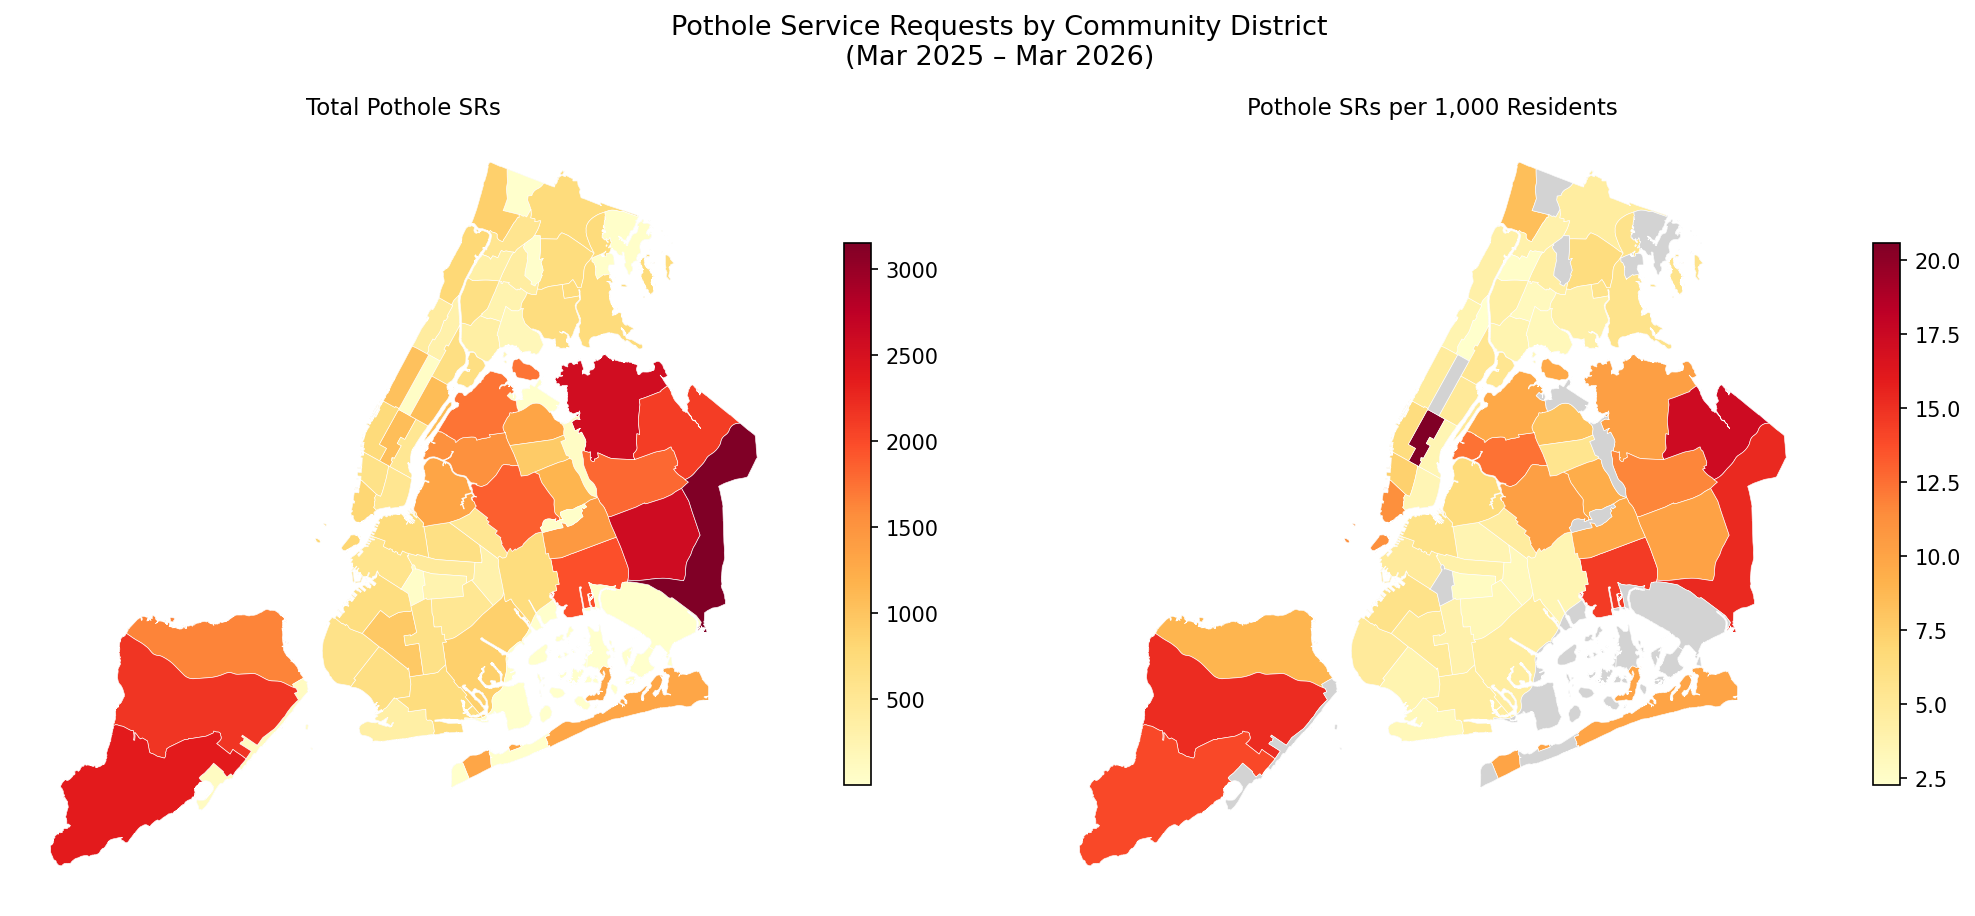
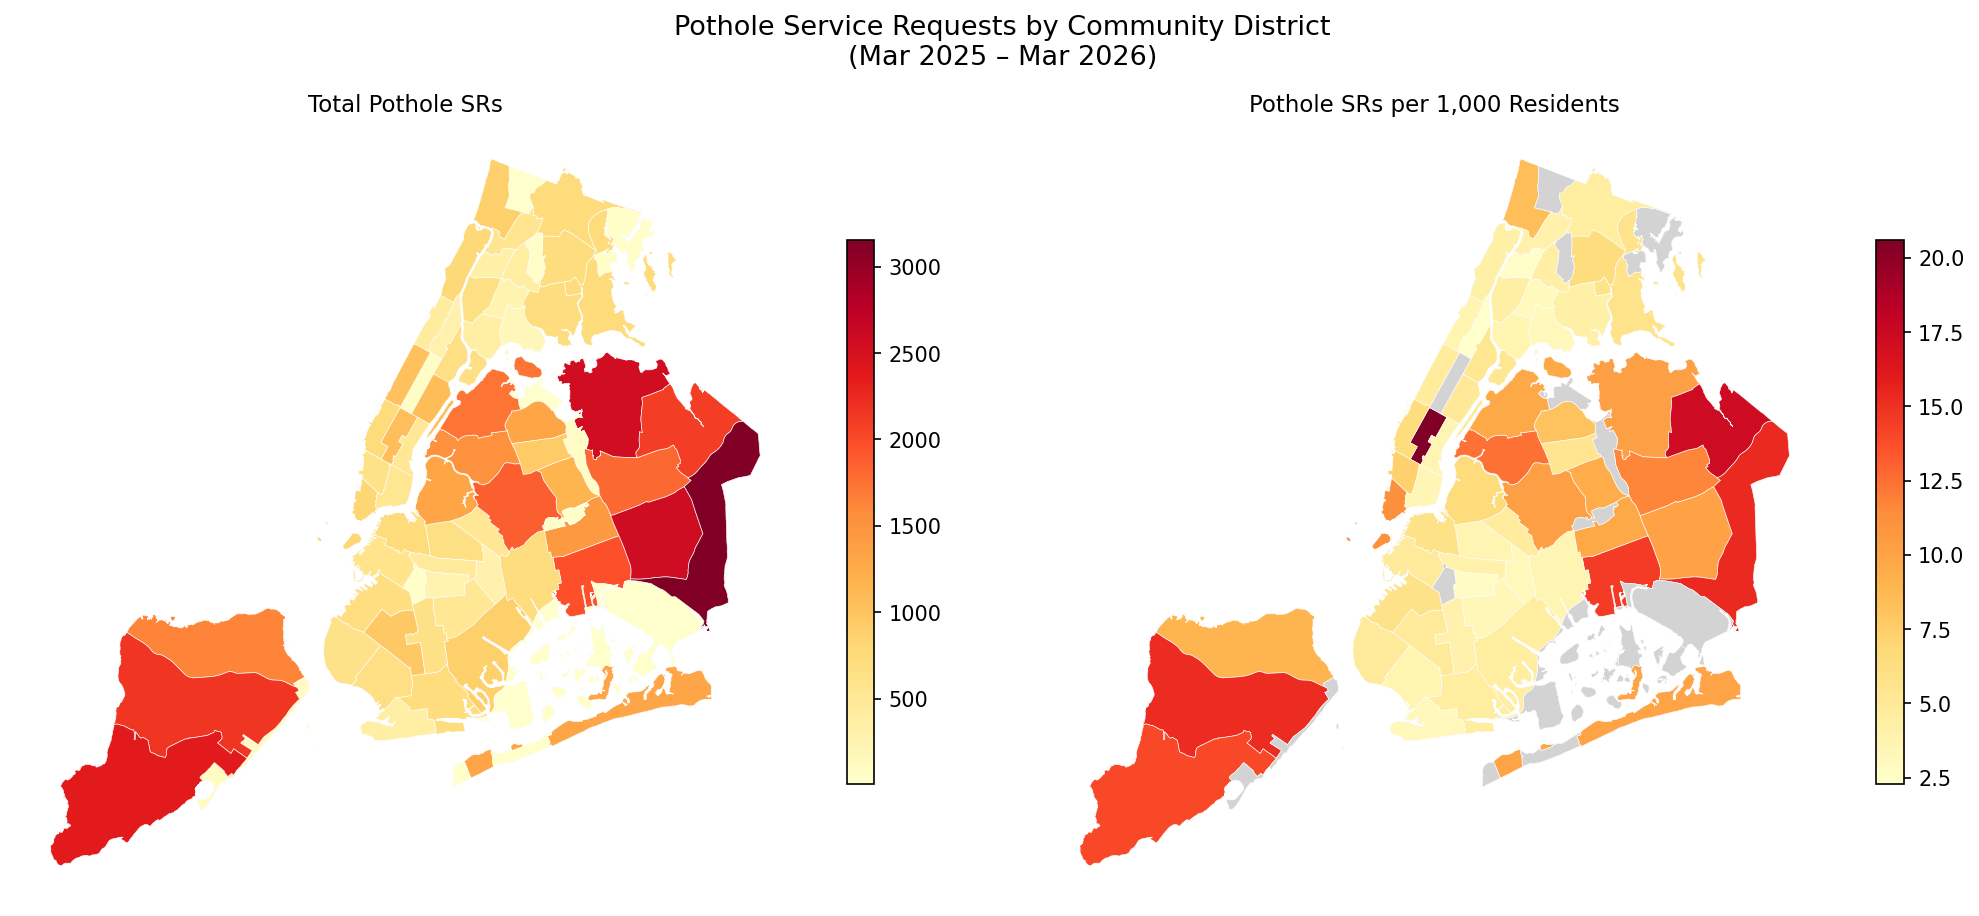
Create maps for potholes and rodents

diff --git a/src/dmo_311_quality/transform/merge_311_acs.py b/src/dmo_311_quality/transform/merge_311_acs.py
@@ -3,25 +3,17 @@ import pandas as pd
 
 from dmo_311_quality.utils.config_paths import PROCESSED_DATA_DIR
 
+# March 2025–March 2026 inclusive, encoded as YYYYMM integers
+_WINDOW_START = 202503
+_WINDOW_END = 202603
 
-if __name__ == '__main__':
-    df_311 = pd.read_parquet(PROCESSED_DATA_DIR / '311_sr_counts.parquet')
-    df_acs = pd.read_parquet(PROCESSED_DATA_DIR / 'acs_cd_demographic.parquet')
-
-
-    keep_row = (
-        (df_311['year'] * 100 + df_311['month'] >= 202503)
-        & (df_311['year'] * 100 + df_311['month'] <= 202603)
-    )
-    df_311 = df_311.loc[keep_row].groupby('community_board')['sr_count'].sum()
 
 # %%
-
 def merge_311_acs(
     df_311: pd.DataFrame,
     df_acs: pd.DataFrame,
-    acs_cols = ['Pop_1E', 'Borough'],
-    validate = '1:1',
+    acs_cols: list[str] = ['Pop_1E', 'Borough'],
+    validate: str = '1:1',
     print_unmatched: bool = False,
 ) -> pd.DataFrame:
     """Left-join 311 service request data with ACS demographic data.
@@ -33,7 +25,7 @@ def merge_311_acs(
         df_311: 311 service request counts with a community_board column.
         df_acs: ACS demographic data with a community_board column.
         acs_cols: List of ACS columns to include in the merge.
-        validate: String to pass to pd.merge's validate parameter.
+        validate: Passed to pd.merge's validate parameter.
         print_unmatched: Whether to print unmatched 311 community boards.
 
     Returns:
@@ -41,30 +33,79 @@ def merge_311_acs(
     """
     merged = pd.merge(
         left=df_311,
-        right=df_acs[acs_cols + ['community_board']], 
-        on='community_board', 
+        right=df_acs[acs_cols + ['community_board']],
+        on='community_board',
         how='left',
         validate=validate,
-        # indicator=True
     )
 
-    # Report on unmatched 311 community boards
-    unmatched = merged[merged['Pop_1E'].isna()]['community_board'].unique()
-    if len(unmatched):
-        print(
-            f'{len(unmatched)} community_board value(s) had no ACS match '
-            f'(rows retained with null ACS columns):\n  ' + '\n  '.join(sorted(unmatched))
-        )
+    if print_unmatched:
+        unmatched = merged[merged['Pop_1E'].isna()]['community_board'].unique()
+        if len(unmatched):
+            print(
+                f'{len(unmatched)} community_board value(s) had no ACS match '
+                f'(rows retained with null ACS columns):\n  ' + '\n  '.join(sorted(unmatched))
+            )
 
     return merged
 
 
+# %%
 if __name__ == '__main__':
+    df_311_raw = pd.read_parquet(PROCESSED_DATA_DIR / '311_sr_counts.parquet')
+    df_acs = pd.read_parquet(PROCESSED_DATA_DIR / 'acs_cd_demographic.parquet')
+    merged = merge_311_acs(df_311_raw, df_acs, validate='m:1', print_unmatched=True)
+    print(merged.head())
 
-    merged = merge_311_acs(df_311, df_acs, print_unmatched=True)
 
-    # out_path = PROCESSED_DATA_DIR / '311_acs_merged.parquet'
-    # merged.to_parquet(out_path, index=False, engine='fastparquet')
-    # print(f'Saved {len(merged):,} rows to {out_path}')
+# %%
+def complaints_per_capita(
+    df_311: pd.DataFrame,
+    df_acs: pd.DataFrame,
+) -> pd.DataFrame:
+    """Compute 311 complaints per 1,000 residents by community board.
+
+    Filters 311 data to March 2025–March 2026 inclusive, aggregates to one
+    row per community board, joins ACS population, and computes a per-capita
+    rate. Rows with no ACS match (e.g. '0 Unspecified') are dropped.
+
+    Args:
+        df_311: Monthly 311 SR counts with columns: community_board, month,
+            year, sr_count.
+        df_acs: ACS demographic data with columns: community_board, Pop_1E,
+            Borough (as returned by get_acs_demographics()).
+
+    Returns:
+        DataFrame with one row per community board (up to 59 rows). Columns:
+        community_board, sr_count, Pop_1E, Borough, sr_per_1k.
+    """
+    yyyymm = df_311['year'] * 100 + df_311['month']
+    df_window = df_311.loc[(yyyymm >= _WINDOW_START) & (yyyymm <= _WINDOW_END)]
+
+    sr_totals = (
+        df_window.groupby('community_board', as_index=False)['sr_count'].sum()
+    )
+
+    merged = merge_311_acs(sr_totals, df_acs, acs_cols=['Pop_1E', 'Borough'])
+
+    n_unmatched = merged['Pop_1E'].isna().sum()
+    if n_unmatched:
+        unmatched = merged.loc[merged['Pop_1E'].isna(), 'community_board'].tolist()
+        print(f'Dropping {n_unmatched} unmatched community board(s): {unmatched}')
+    merged = merged.dropna(subset=['Pop_1E']).copy()
+
+    merged['sr_per_1k'] = merged['sr_count'] / merged['Pop_1E'] * 1000
+
+    return merged.reset_index(drop=True)
+
+
+# %%
+if __name__ == '__main__':
+    df_311 = pd.read_parquet(PROCESSED_DATA_DIR / '311_sr_counts.parquet')
+    df_acs = pd.read_parquet(PROCESSED_DATA_DIR / 'acs_cd_demographic.parquet')
+
+    df = complaints_per_capita(df_311, df_acs)
+    print(f'{len(df):,} rows | columns: {df.columns.tolist()}')
+    print(df.sort_values('sr_per_1k', ascending=False).head(10))
 
 # %%

diff --git a/src/dmo_311_quality/transform/run_transform.py b/src/dmo_311_quality/transform/run_transform.py
@@ -1,0 +1,51 @@
+# %%
+import pandas as pd
+
+from dmo_311_quality.transform.merge_311_acs import complaints_per_capita
+from dmo_311_quality.utils.config_paths import PROCESSED_DATA_DIR
+
+
+# %%
+def transform_complaints_per_capita() -> pd.DataFrame:
+    """Compute 311 complaints per 1,000 residents by community board and save.
+
+    Loads 311 monthly counts and ACS demographics from processed parquets,
+    filters to March 2025–March 2026, joins on community_board, and computes
+    sr_per_1k. Saves result to data/processed/311_acs_per_capita.parquet.
+
+    Returns:
+        DataFrame with one row per community board: community_board, sr_count,
+        Pop_1E, Borough, sr_per_1k.
+    """
+    df_311 = pd.read_parquet(PROCESSED_DATA_DIR / '311_sr_counts.parquet')
+    df_acs = pd.read_parquet(PROCESSED_DATA_DIR / 'acs_cd_demographic.parquet')
+
+    df = complaints_per_capita(df_311, df_acs)
+
+    out_path = PROCESSED_DATA_DIR / '311_acs_per_capita.parquet'
+    out_path.parent.mkdir(parents=True, exist_ok=True)
+    df.to_parquet(out_path, index=False, engine='fastparquet')
+    print(f'Per-capita complaints: {len(df):,} rows → {out_path}')
+    return df
+
+
+# %%
+if __name__ == '__main__':
+    df = transform_complaints_per_capita()
+    print(df.sort_values('sr_per_1k', ascending=False).head(10))
+
+
+# %%
+def main() -> None:
+    """Run all transform steps in order and save outputs to data/processed/."""
+    print('--- Transform: complaints per capita ---')
+    transform_complaints_per_capita()
+
+    print('\nTransform complete.')
+
+
+# %%
+if __name__ == '__main__':
+    main()
+
+# %%

diff --git a/src/dmo_311_quality/visualize/choropleth.py b/src/dmo_311_quality/visualize/choropleth.py
@@ -1,3 +1,4 @@
+# source /Users/tarasullivan/Documents/oda/dmo-311-quality/.venv/bin/activate
 # %%
 import matplotlib.pyplot as plt
 import pandas as pd
@@ -86,7 +87,7 @@ if __name__ == '__main__':
 
     fig, axes = plt.subplots(1, 2, figsize=(14, 6))
     fig.suptitle(
-        '311 Service Requests by Community District\n(Mar 2023 – Mar 2026)',
+        '311 Service Requests by Community District\n(Mar 2025 – Mar 2026)',
         fontsize=13,
         y=1.01,
     )

diff --git a/TASKS.md b/TASKS.md
@@ -49,4 +49,5 @@ The study window is **March 1, 2023 – March 1, 2026**.
 ### Stretch
 - [x] Extend analysis to complaint type — pothole SRs extracted and mapped
 - [ ] Extend further to other complaint types as needed
-- [ ] Time trend analysis: has representation improved or worsened over the study window?
+- [ ] Time series analysis: monthly SR complaint trends by community board — has representation improved or worsened over the study window?
+- [ ] Evaluate additional complaint types and descriptors beyond potholes and rodents

diff --git a/CLAUDE.md b/CLAUDE.md
@@ -31,3 +31,8 @@ output/reports/
 
 ## Tasks
 Maintain TASKS.md. After every session, update it with what was completed and what's next.
+
+## Workflow
+- Propose an approach and wait for approval before writing code
+- After each function, summarize what it does and what should be verified
+- Flag any assumptions made about data structure or column names
